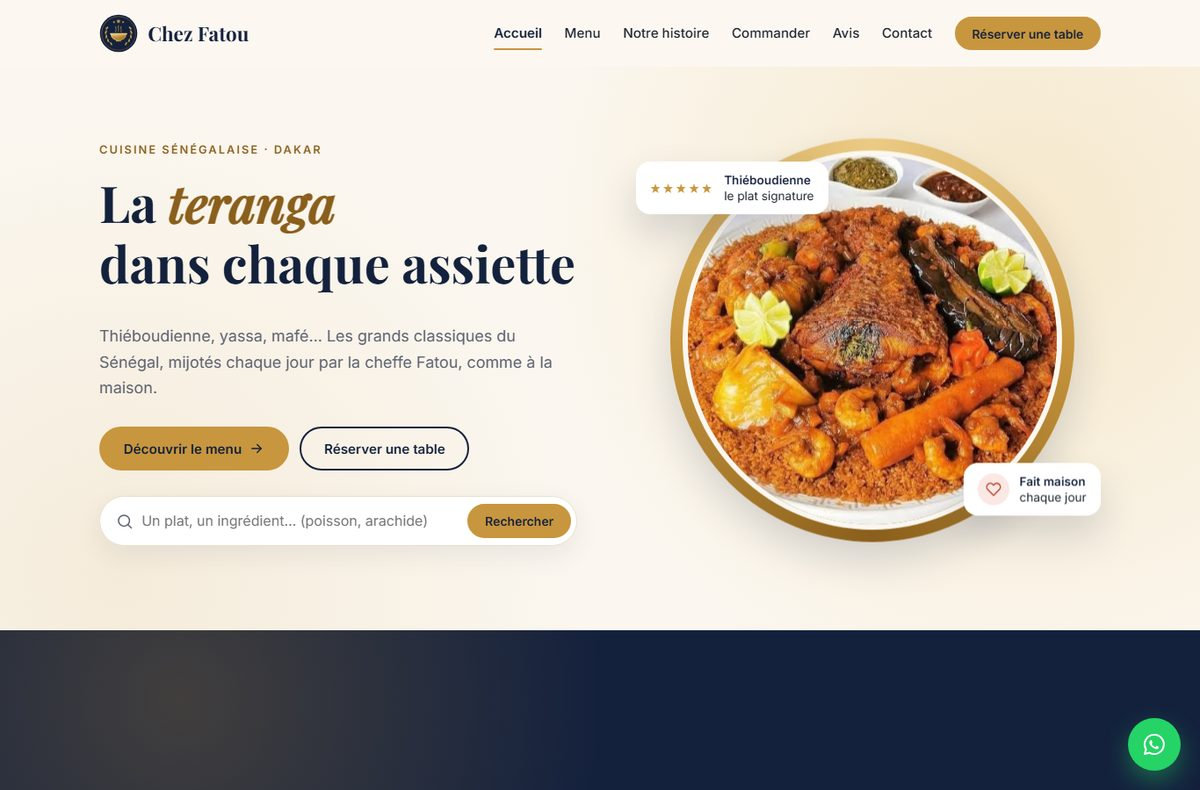
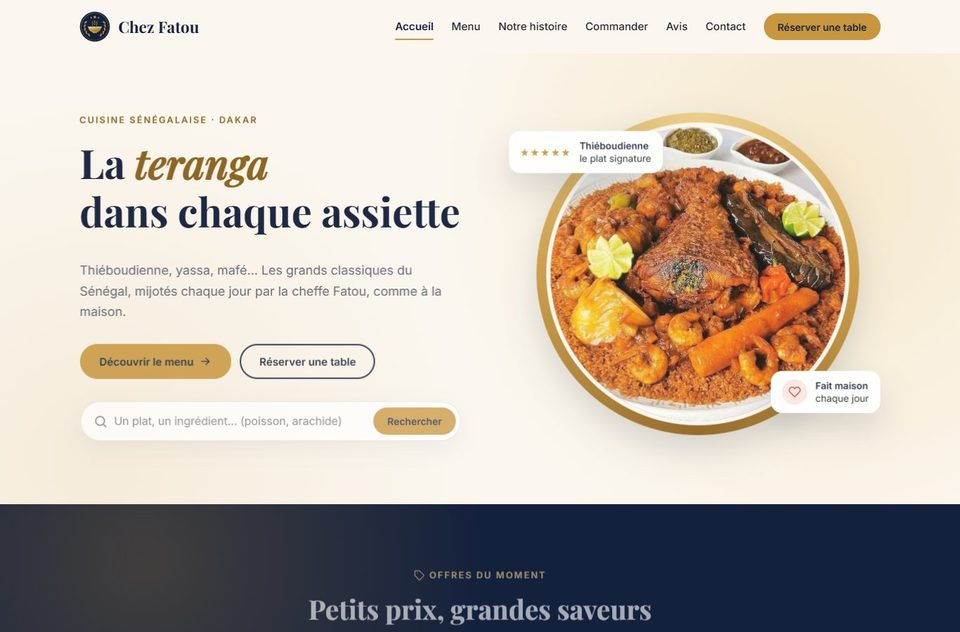
Remplace les captures des projets mis en avant par des aperçus animés
Pages d'accueil filmées (animation, parcours de l'appli d'évaluation, défilement du site
du restaurant), en WebP animé ; image fixe si l'animation est désactivée.

diff --git a/index.html b/index.html
@@ -269,7 +269,7 @@
   <p class="pf-intro reveal">Une sélection de travaux menés en poste et en mission. Les données des clients restent confidentielles : chaque projet présente la démarche, les outils et ce qui a été produit.</p>
   <div class="projects">
       <article class="bento-card project featured reveal" style="--i: 0">
-        <a class="project-shot" href="projets/Fiche-projet-Modelis.pdf" target="_blank" rel="noopener"><img src="projets/apercus/modelis-accueil.jpg" alt="Aperçu : Modélis : plateforme d&#x27;économétrie appliquée" loading="lazy" width="1200" height="790"></a>
+        <a class="project-shot" href="projets/Fiche-projet-Modelis.pdf" target="_blank" rel="noopener"><picture><source srcset="projets/apercus/modelis-accueil.jpg" media="(prefers-reduced-motion: reduce)"><img src="projets/apercus/modelis-accueil.webp" alt="Aperçu animé : Modélis : plateforme d&#x27;économétrie appliquée" loading="lazy" width="960" height="632"></picture></a>
         <div class="project-body">
         <span class="bento-num">01</span>
         <p class="project-tag">Plateforme d&#x27;économétrie · novembre 2026</p>
@@ -281,7 +281,7 @@
         </div>
       </article>
       <article class="bento-card project featured reveal" style="--i: 1">
-        <a class="project-shot" href="projets/Fiche-projet-Questionnaire-evaluation-enseignements.pdf" target="_blank" rel="noopener"><img src="projets/apercus/evaluation-accueil.jpg" alt="Aperçu : Questionnaire d&#x27;évaluation des enseignements par les étudiants" loading="lazy" width="1200" height="790"></a>
+        <a class="project-shot" href="projets/Fiche-projet-Questionnaire-evaluation-enseignements.pdf" target="_blank" rel="noopener"><picture><source srcset="projets/apercus/evaluation-accueil.jpg" media="(prefers-reduced-motion: reduce)"><img src="projets/apercus/evaluation-accueil.webp" alt="Aperçu animé : Questionnaire d&#x27;évaluation des enseignements par les étudiants" loading="lazy" width="960" height="632"></picture></a>
         <div class="project-body">
         <span class="bento-num">02</span>
         <p class="project-tag">Consultant · Application web · octobre 2026</p>
@@ -293,7 +293,7 @@
         </div>
       </article>
       <article class="bento-card project featured reveal" style="--i: 0">
-        <a class="project-shot" href="projets/Fiche-projet-Chez-Fatou.pdf" target="_blank" rel="noopener"><img src="projets/apercus/chez-fatou-accueil.jpg" alt="Aperçu : Chez Fatou : site web et outil de gestion d&#x27;un restaurant" loading="lazy" width="1200" height="790"></a>
+        <a class="project-shot" href="projets/Fiche-projet-Chez-Fatou.pdf" target="_blank" rel="noopener"><picture><source srcset="projets/apercus/chez-fatou-accueil.jpg" media="(prefers-reduced-motion: reduce)"><img src="projets/apercus/chez-fatou-accueil.webp" alt="Aperçu animé : Chez Fatou : site web et outil de gestion d&#x27;un restaurant" loading="lazy" width="960" height="632"></picture></a>
         <div class="project-body">
         <span class="bento-num">03</span>
         <p class="project-tag">Consultant · Site web · octobre 2026</p>

diff --git a/assets/style.css b/assets/style.css
@@ -202,7 +202,7 @@ main { max-width: 1180px; margin: 0 auto; padding: 24px 16px 40px; }
 .project.featured:nth-child(2) .project-shot { order: 2; }
 .project-shot { display: block; border-radius: 16px; overflow: hidden; border: 1px solid var(--tint-line); box-shadow: var(--shadow); transition: transform .35s; }
 .project-shot:hover { transform: scale(1.015); }
-.project-shot img { display: block; width: 100%; height: auto; }
+.project-shot picture, .project-shot img { display: block; width: 100%; height: auto; }
 
 /* 07 Contact : bloc noir arrondi, comme le bandeau */
 .contact {
